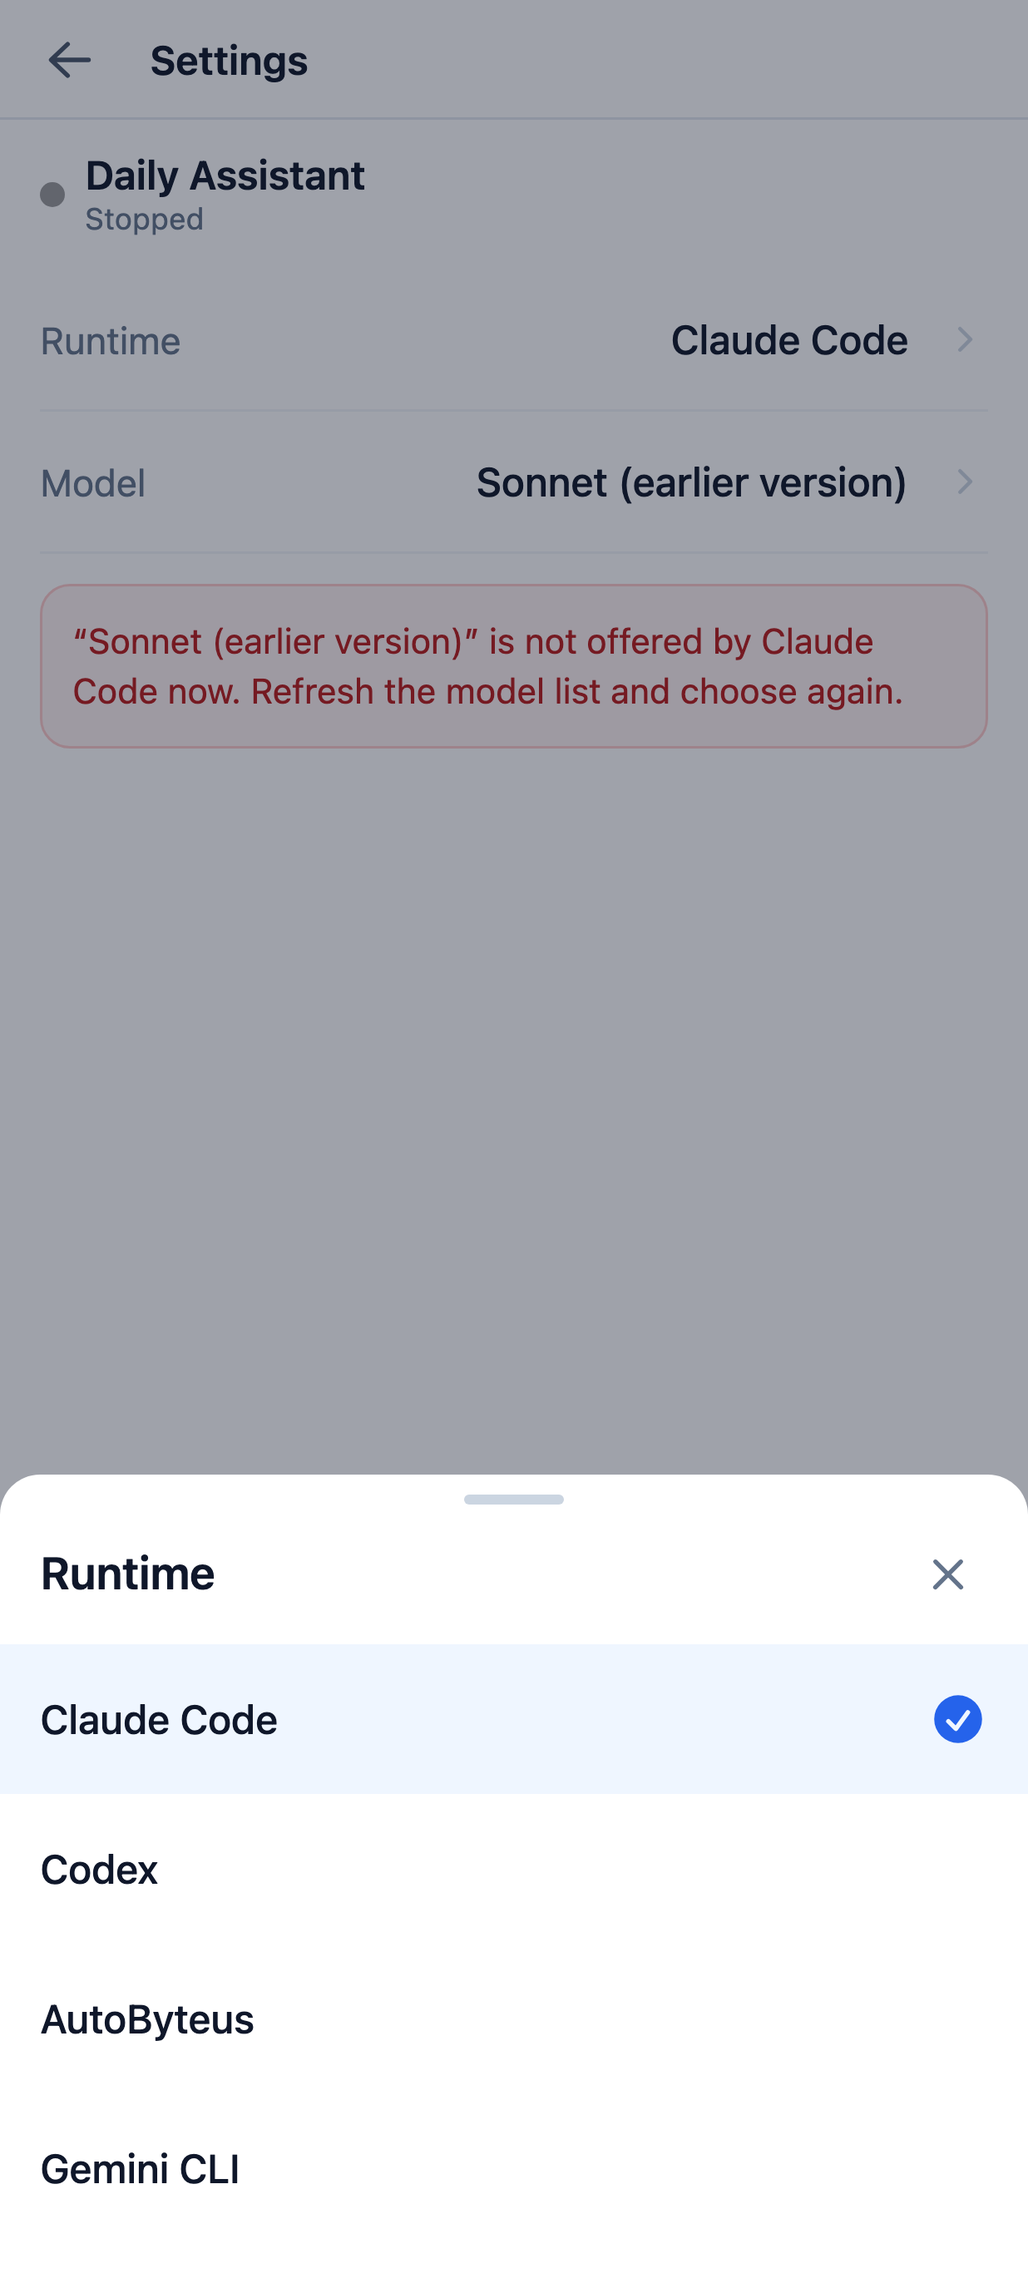
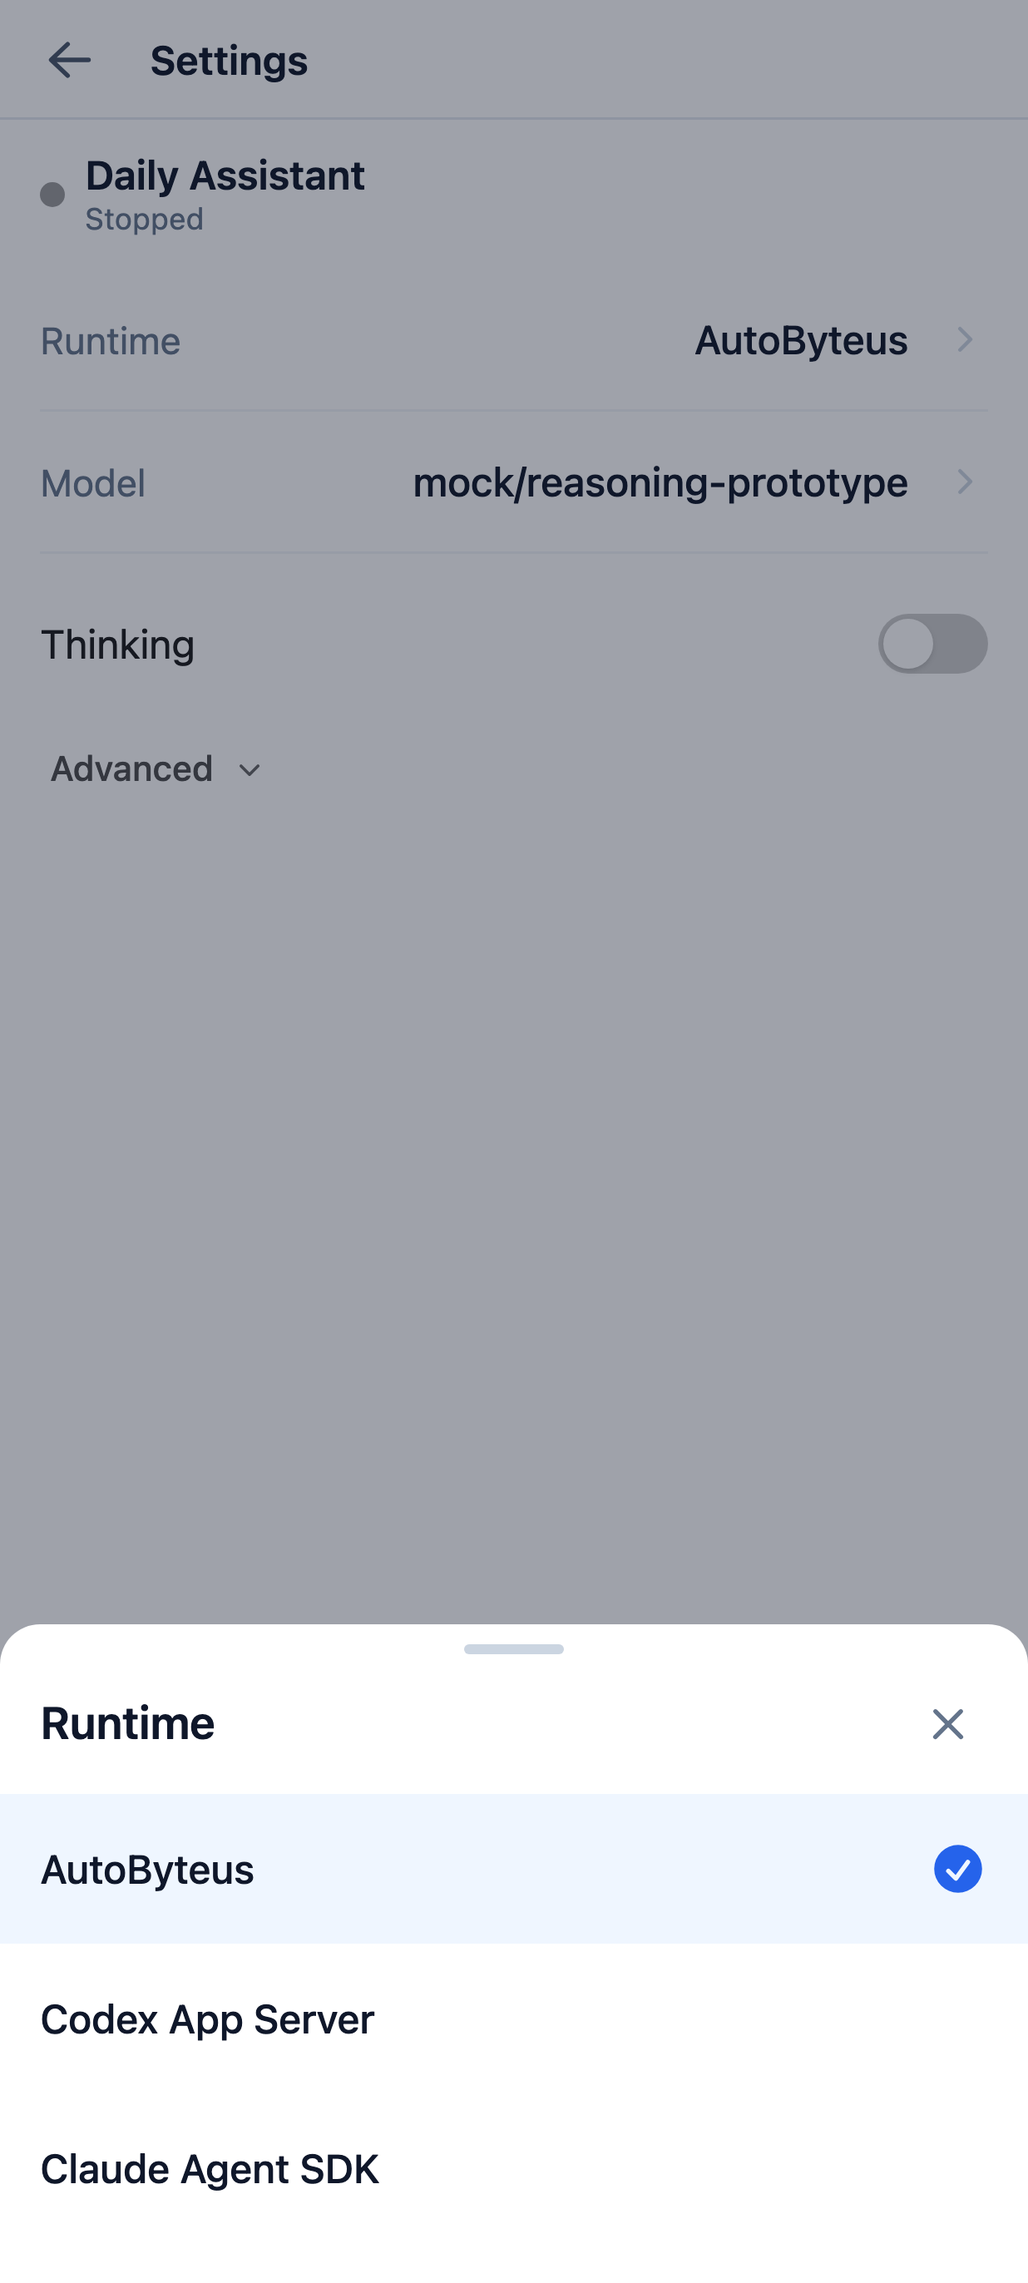
design(phone-conversation-readability-506): Settings uses New run's Runtime and Model rows and the product's names (review 7); VIS-009..017 re-captured

diff --git a/components/mobile/views/MobileRunSettings.vue b/components/mobile/views/MobileRunSettings.vue
@@ -21,29 +21,16 @@
         @click="stopRun"
       >Stop run</button>
 
-      <MobileChoiceSheet
-        :model-value="draftRuntime"
-        label="Runtime"
-        :items="runtimeItems"
+      <MobileRuntimeModelRows
+        :runtime-kind="draftRuntime"
+        :llm-model-identifier="draftModel"
+        :seed-model-identifier="savedModel"
+        :llm-config="draftConfig"
         :disabled="working"
-        test-id="mobile-run-settings-runtime"
-        item-noun="runtimes"
-        @update:model-value="chooseRuntime"
+        @update:runtime-kind="chooseRuntime"
+        @update:llm-model-identifier="chooseModel"
+        @update:llm-config="draftConfig = $event"
       />
-      <MobileChoiceSheet
-        :model-value="draftModel"
-        label="Model"
-        placeholder="Choose"
-        :items="modelItems"
-        :disabled="working"
-        test-id="mobile-run-settings-model"
-        item-noun="models"
-        @update:model-value="chooseModel"
-      >
-        <template #footer>
-          <ModelListRefreshControl touch :refreshing="false" :failed="false" @refresh="refreshModels" />
-        </template>
-      </MobileChoiceSheet>
 
       <p v-if="error" class="mt-3 rounded-xl border border-red-200 bg-red-50 p-3 text-sm text-red-700" role="alert" data-testid="mobile-run-settings-error">{{ error }}</p>
     </div>
@@ -62,11 +49,10 @@
 
 <script setup lang="ts">
 import { computed, ref, watch } from 'vue';
-import { Icon } from '@iconify/vue';
 import MobileScreenBar from '~/components/mobile/MobileScreenBar.vue';
-import MobileChoiceSheet from '~/components/mobile/newRun/MobileChoiceSheet.vue';
-import ModelListRefreshControl from '~/components/common/ModelListRefreshControl.vue';
-import { RUN_RUNTIMES, markStopped, runtimeOf, useRunModelSelection } from '~/prototype/mobile-runs/runModelFixture';
+import MobileRuntimeModelRows from '~/components/mobile/newRun/MobileRuntimeModelRows.vue';
+import { agentRuntimeName } from '@autobyteus/agent-presentation-contracts';
+import { markStopped, saveIsRefused } from '~/prototype/mobile-runs/runSettingsFixture';
 import { useTargetConversation } from '~/composables/workspace/useTargetConversation';
 import { mobileRunStatusLabel } from '~/utils/mobile/mobileRunStatusLabel';
 import { agentStatusDotClass } from '~/utils/workspaceStatusDotPresentation';
@@ -76,7 +62,6 @@ const props = defineProps<{ target: ActiveAgentWorkspaceTarget; parentName: stri
 const emit = defineEmits<{ (event: 'back'): void }>();
 
 const { displayName } = useTargetConversation(() => props.target);
-const { current, save: saveSelection, refreshList, isOffered } = useRunModelSelection(() => props.target.context.state.runId);
 
 const status = computed(() => props.target.context.state.currentStatus);
 /** The node changes a stopped run only: a running or starting run answers "not editable". */
@@ -88,32 +73,31 @@ const subtitle = computed(() => {
 });
 const stopRun = (): void => { markStopped(props.target.context.state.runId); (props.target.context.state as { currentStatus: string }).currentStatus = 'offline'; };
 
-const draftRuntime = ref(current.value.runtime);
-const draftModel = ref(current.value.model);
+/** The run's saved selection is the run's own config (what the desktop's Settings of an existing run edits). */
+const config = computed(() => props.target.context.config as { runtimeKind: string; llmModelIdentifier: string; llmConfig?: Record<string, unknown> | null });
+const savedRuntime = computed(() => config.value.runtimeKind);
+const savedModel = computed(() => config.value.llmModelIdentifier);
+
+const draftRuntime = ref(savedRuntime.value);
+const draftModel = ref(savedModel.value);
+const draftConfig = ref<Record<string, unknown> | null>(config.value.llmConfig ?? null);
 const error = ref('');
-watch(() => props.target.context.state.runId, () => { draftRuntime.value = current.value.runtime; draftModel.value = current.value.model; error.value = ''; });
+watch(() => props.target.context.state.runId, () => {
+  draftRuntime.value = savedRuntime.value; draftModel.value = savedModel.value; draftConfig.value = config.value.llmConfig ?? null; error.value = '';
+});
 
-const runtimeItems = computed(() => RUN_RUNTIMES.map((runtime) => ({ id: runtime.id, label: runtime.name })));
-const modelItems = computed(() => (runtimeOf(draftRuntime.value)?.models ?? [])
-  .filter((model) => isOffered(draftRuntime.value, model))
-  .map((model) => ({ id: model.id, label: model.name, detail: model.detail })));
-
-const chooseRuntime = (id: string): void => {
-  draftRuntime.value = id;
-  draftModel.value = ''; // a runtime's own models: the model is chosen again
-  error.value = '';
-};
+// A runtime's own models: the rows clear the model when the runtime changes and the model is chosen again.
+const chooseRuntime = (kind: string): void => { draftRuntime.value = kind; error.value = ''; };
 const chooseModel = (id: string): void => { draftModel.value = id; error.value = ''; };
-const refreshModels = (): void => {
-  refreshList(draftRuntime.value);
-  if (draftModel.value && !modelItems.value.some((item) => item.id === draftModel.value)) draftModel.value = '';
-  error.value = '';
-};
 
-const changed = computed(() => draftRuntime.value !== current.value.runtime || draftModel.value !== current.value.model);
+const changed = computed(() => draftRuntime.value !== savedRuntime.value || draftModel.value !== savedModel.value);
 const canSave = computed(() => !working.value && changed.value && Boolean(draftModel.value));
 const save = (): void => {
-  const outcome = saveSelection(draftRuntime.value, draftModel.value);
-  if (outcome.ok) emit('back'); else error.value = outcome.message; // saved: back to the conversation, nothing else said
+  if (saveIsRefused()) {
+    error.value = `“${draftModel.value}” is not offered by ${agentRuntimeName(draftRuntime.value)} now. Refresh the model list and choose again.`;
+    return;
+  }
+  Object.assign(config.value, { runtimeKind: draftRuntime.value, llmModelIdentifier: draftModel.value, llmConfig: draftConfig.value });
+  emit('back'); // saved: back to the conversation, nothing else said
 };
 </script>

diff --git a/prototype/mobile-runs/runSettingsFixture.ts b/prototype/mobile-runs/runSettingsFixture.ts
@@ -1,0 +1,17 @@
+/**
+ * Design layer of autobyteus-458 (Settings of a run on the phone). The runtimes and models are the New run screen's own (the same
+ * stores and rows, so names and lists are the product's everywhere); this file only holds what the node would decide, scripted:
+ * which runs were stopped from the phone, and the node's refusal when the starting state `mobile_settings_refused` is set
+ * (`localStorage` `autobyteus.prototype.scenario`).
+ */
+import { reactive } from 'vue';
+
+const stopped = reactive<Record<string, boolean>>({});
+/** Runs stopped from the phone this session (the opened run then shows Stopped, not Running again). */
+export const hasBeenStopped = (runId: string): boolean => Boolean(stopped[runId]);
+export const markStopped = (runId: string): void => { stopped[runId] = true; };
+
+/** The node answers Save with its plain refusal (scenario `mobile_settings_refused`). */
+export const saveIsRefused = (): boolean => {
+  try { return window.localStorage.getItem('autobyteus.prototype.scenario') === 'mobile_settings_refused'; } catch { return false; }
+};

diff --git a/composables/mobile/useMobileRunOpening.ts b/composables/mobile/useMobileRunOpening.ts
@@ -1,6 +1,6 @@
 import { useMobileNavigation } from '~/composables/mobile/useMobileNavigation'
 import { conversationOf, teamOfMember } from '~/prototype/mobile-runs/mobileRunsFixture'
-import { hasBeenStopped } from '~/prototype/mobile-runs/runModelFixture'
+import { hasBeenStopped } from '~/prototype/mobile-runs/runSettingsFixture'
 import { useAgentContextsStore } from '~/stores/agentContextsStore'
 import { useMobileRunOpeningStore } from '~/stores/mobileRunOpeningStore'
 import { useMobileRunTreeStore } from '~/stores/mobileRunTreeStore'

diff --git a/tickets/done/phone-conversation-readability-506/ui-ux-spec.md b/tickets/done/phone-conversation-readability-506/ui-ux-spec.md
@@ -30,7 +30,7 @@
   4. **One phone-wide Text size control, four steps** (15, 17, 19, 21 px), in the run's ⋮ menu, applying at once.
   5. **Tool cards, code blocks, tables and the error card use the whole column.**
   6. **A message from another agent is shown as it is** (no arrow, no message-type line) on the phone.
-  7. **Settings** is one ⋮ menu entry and one small screen (Runtime, Model, Save) reusing the New run rows and sheets; a running run shows one plain **Stop run** button above the rows (the node only changes a stopped run), as the desktop has one button. No explanatory or usage text anywhere on the screen.
+  7. **Settings** is one ⋮ menu entry and one small screen (Runtime, Model, Save) reusing the New run rows and sheets **and their data, so the runtime names, model names and lists are the same here, in New run and on the desktop**; a running run shows one plain **Stop run** button above the rows (the node only changes a stopped run), as the desktop has one button. No explanatory or usage text anywhere on the screen.
 - Alternatives considered and why rejected (both were built and shown, then not approved): **A** a slim 24 px avatar column (text 356 px, 86%): keeps a column of space, less gain. **C** no avatars, the founder's messages in a soft blue block (388 px): widest and leanest, but loses who-spoke at a glance in runs with several speakers. Also rejected: a runtime/model summary under the menu entry; usage-limit marks and notes (the desktop has no such information, the founder's word); a saved card and an "applies at the next message" line (the founder's word); a Text size section in the Settings screen (the founder prefers the menu).
 
 ## Scope And Experience Goal
@@ -78,7 +78,7 @@
 | --- | --- | --- | --- |
 | Conversation phone layout | full-width column, turn header, type scale, markdown, cards | the four text sizes; browse and live paths use the same turn markup | `assets/css/phone-conversation.css`; `components/conversation/AIMessage.vue`, `UserMessage.vue`; `components/workspace/agent/EventMonitorBrowseAssistantRow.vue`, `AgentConversationFeed.vue`, `AgentEventMonitor.vue` |
 | Text size (phone-wide) | the four steps, kept on the phone | Small, Standard, Large, Largest | `composables/mobile/usePhoneTextSize.ts`; `components/mobile/runScreen/MobileRunMenu.vue` |
-| Settings screen | runtime and model of the open run | stopped, running (Stop run card), refused | `components/mobile/views/MobileRunSettings.vue`; `prototype/mobile-runs/runModelFixture.ts` (invented) |
+| Settings screen | runtime and model of the open run | stopped, running (Stop run button), refused | `components/mobile/views/MobileRunSettings.vue` (uses `components/mobile/newRun/MobileRuntimeModelRows.vue`, the New run rows); `prototype/mobile-runs/runSettingsFixture.ts` (what the node would decide, scripted) |
 | Composer bottom corners | continuous 1 px border | none | `components/agentInput/AgentUserInputTextArea.vue` |
 
 ## Journey Inventory
@@ -181,9 +181,9 @@ Not the phone's: the node's refusal messages (`run-model-selection-refusal.ts`),
 
 | Boundary / Data | UI Dependency | UI Reference Behavior | Production Behavior Required Or Still Unknown |
 | --- | --- | --- | --- |
-| a run's runtime and model | rows and lists | `prototype/mobile-runs/runModelFixture.ts`: invented runtimes (Claude Code, Codex, AutoByteus, Gemini CLI) and models, the selection kept in memory/session per run | the node's lists and `agentRunModelOptions`/`teamRunModelOptions`, `updateStoppedAgentRunSelection`/`updateStoppedTeamRunSelections`/`updateStoppedAgentOrgRunConfig` as the desktop uses them (`ExistingRunConfigEditor.vue`, `services/runConfigEditing`) |
+| a run's runtime and model | rows and lists | **the product's own, the same as New run and the desktop**: the rows are New run's `MobileRuntimeModelRows` (runtime names from `agentRuntimeName`: AutoByteus, Codex App Server, Claude Agent SDK, …; the model lists, display names, grouping, model settings such as Thinking, and "Refresh models" come from the same stores); the current values are the run's own config (`runtimeKind`, `llmModelIdentifier`, `llmConfig`); Save writes them to the run's config in memory | the node's lists and `agentRunModelOptions`/`teamRunModelOptions`, `updateStoppedAgentRunSelection`/`updateStoppedTeamRunSelections`/`updateStoppedAgentOrgRunConfig` as the desktop uses them (`ExistingRunConfigEditor.vue`, `services/runConfigEditing`); one source of runtime and model names in every view |
 | stopped only | Stop run first | Stop run sets the run Stopped locally | the node answers `RUN_ACTIVE` to a running run; Stop uses the desktop's stop action |
-| the refusal | red card | one invented model ("Sonnet (earlier version)") is refused until "Refresh models" | the node's `MODEL_UNAVAILABLE` message in plain words |
+| the refusal | red card | the starting state `mobile_settings_refused` (`localStorage` `autobyteus.prototype.scenario`) makes Save answer with the refusal; no control in the UI | the node's `MODEL_UNAVAILABLE` message in plain words |
 | the phone key | Settings | allowed | DEC-001: allowed; autobyteus-441 must keep stop and change on the phone's allowed list |
 | Text size | the four steps | stored in `localStorage` key `autobyteus.phone.textSize` | stored on the phone |
 | running runs | the Stop run button | a run the list shows as running opens as Running | the node's live status |
@@ -212,7 +212,7 @@ All images: `visual-references/`, captured from the running UI reference after t
 | VIS-009 | Settings, stopped run | 412 | `VIS-009-settings-stopped-412.png` |
 | VIS-010 | Settings, model list | 412 | `VIS-010-settings-model-list-412.png` |
 | VIS-011 | Settings, model chosen (Save enabled) | 412 | `VIS-011-settings-model-chosen-412.png` |
-| VIS-012 | Settings, the node's refusal | 412 | `VIS-012-settings-refused-412.png` |
+| VIS-012 | Settings, the node's refusal (starting state `mobile_settings_refused`) | 412 | `VIS-012-settings-refused-412.png` |
 | VIS-013 | Settings, runtime list | 412 | `VIS-013-settings-runtime-list-412.png` |
 | VIS-014 | Settings, runtime changed (Model "Choose") | 412 | `VIS-014-settings-runtime-changed-412.png` |
 | VIS-015 | back in the conversation after Save | 412 | `VIS-015-after-save-conversation-412.png` |
@@ -225,7 +225,7 @@ Review evidence (not normative): `evidence/review-1/` (today versus options A, B
 
 ## Change Record (design changes from the baseline)
 
-DC-001 full-width text column and 12 px margins; DC-002 turn header (avatar and name once per speaker); DC-003 17 px / 1.5 type and the markdown and card values above; DC-004 four-step Text size in the ⋮ menu; DC-005 another agent's message without arrow or type line (phone only); DC-006 Settings entry and screen (458); DC-007 Stop run for a running run (458); DC-008 composer lower-corner fix; DC-009 a run the list shows as running opens as Running (UI reference only). Dropped after review: the amber "This run is working" card and its two sentences (the founder: one button, as on the desktop), usage-limit marks and notes, the runtime/model summary under Settings, the saved card, the next-message line, the member note, a Text size section in Settings.
+DC-001 full-width text column and 12 px margins; DC-002 turn header (avatar and name once per speaker); DC-003 17 px / 1.5 type and the markdown and card values above; DC-004 four-step Text size in the ⋮ menu; DC-005 another agent's message without arrow or type line (phone only); DC-006 Settings entry and screen (458); DC-007 Stop run for a running run (458); DC-008 composer lower-corner fix; DC-009 a run the list shows as running opens as Running (UI reference only); DC-010 Settings uses New run's Runtime and Model rows and the product's runtime and model names (review 7: the founder: the names must be the same as on the desktop everywhere). Dropped after review: the amber "This run is working" card and its two sentences (the founder: one button, as on the desktop), usage-limit marks and notes, the runtime/model summary under Settings, the saved card, the next-message line, the member note, a Text size section in Settings.
 
 ## Open Decisions
 

diff --git a/tickets/done/phone-conversation-readability-506/product-ticket.md b/tickets/done/phone-conversation-readability-506/product-ticket.md
@@ -76,6 +76,10 @@ The founder: "I agree with your recommendation … I accepted your recommendatio
 
 The founder: far too unclean; follow the same cleaning principle: the desktop has just one button and now there are so many words. Change: the running state of Settings is one plain "Stop run" button under the run's name; the amber "This run is working" card and its two sentences are gone (keys `runningTitle`, `runningBody` removed). VIS-016 and VIS-017 re-captured. Evidence: `visual-references/VIS-016-settings-running-412.png`, `VIS-017-settings-after-stop-412.png`.
 
+## Review 7 (2026-11-17, the founder, after the approval)
+
+The founder: the runtime and model names in Settings are not the same as on the desktop; they must be consistent in every place, not only on the phone. Cause: my Settings used an invented list (Claude Code, Codex, Gemini CLI, Opus, Sonnet, …) instead of the product's. Change: Settings now uses New run's own Runtime and Model rows (`MobileRuntimeModelRows`), so runtime names (`agentRuntimeName`: AutoByteus, Codex App Server, Claude Agent SDK), model lists, display names and model settings are the product's, the same as New run and the desktop; the current values are the run's own config. The invented fixture was deleted (`runSettingsFixture.ts` keeps only the stop state and the scripted refusal, starting state `mobile_settings_refused`). VIS-009 to VIS-017 re-captured. Known baseline gap seen on the way: the UI reference's model sheet logs `llmStore.refreshCatalog is not a function` (the stand-in of the baseline refresh; not part of this design; the "Refresh models" button belongs to the product).
+
 ## Questions for the user (all answered)
 
 1. 506: A, B or C? (recommendation B). 2. Text size default 17 px and the four steps. 3. (answered by review 4: no usage-limit marks at all) 4. Is one tap on Stop run without a confirmation right (the desktop does the same)?

diff --git a/tickets/done/phone-conversation-readability-506/ui-reference-runbook.md b/tickets/done/phone-conversation-readability-506/ui-reference-runbook.md
@@ -4,5 +4,5 @@
 - Over Tailscale for a real phone: start the server with `__VITE_ADDITIONAL_SERVER_ALLOWED_HOSTS=.ts.net` (it stays on 127.0.0.1), add one Tailscale Serve entry on a free port, and remove only that entry afterwards.
 - The conversation: list → "Summarize the 1.6 release notes for the pilot customers" (Daily Assistant; stopped; holds every message and segment type). A running run: "Project Task Manager" (Settings shows Stop run).
 - Text size: ⋮ → Text size (four steps; kept in `localStorage` `autobyteus.phone.textSize`). Reset: remove that key.
-- Settings: ⋮ → Settings. The run's selection is kept in `sessionStorage` `autobyteus.prototype.runModelSelections`; reset by removing it (or a new tab). "Sonnet (earlier version)" is the model the invented node refuses until "Refresh models". A list-running run opens as Running until Stop run.
-- All data is invented (`prototype/source-observation/mobile-world.mjs`, `prototype/mobile-runs/runModelFixture.ts`).
+- Settings: ⋮ → Settings. Runtime and Model are New run's rows with the same lists (runtime names AutoByteus, Codex App Server, Claude Agent SDK; the UI reference's mock models); Save changes the run's config in memory (reload resets). The node's refusal: `localStorage.setItem('autobyteus.prototype.scenario', 'mobile_settings_refused')`, reload, change the model, Save. A list-running run opens as Running until Stop run.
+- All data is invented (`prototype/source-observation/mobile-world.mjs`, `prototype/mobile-runs/runSettingsFixture.ts`).
